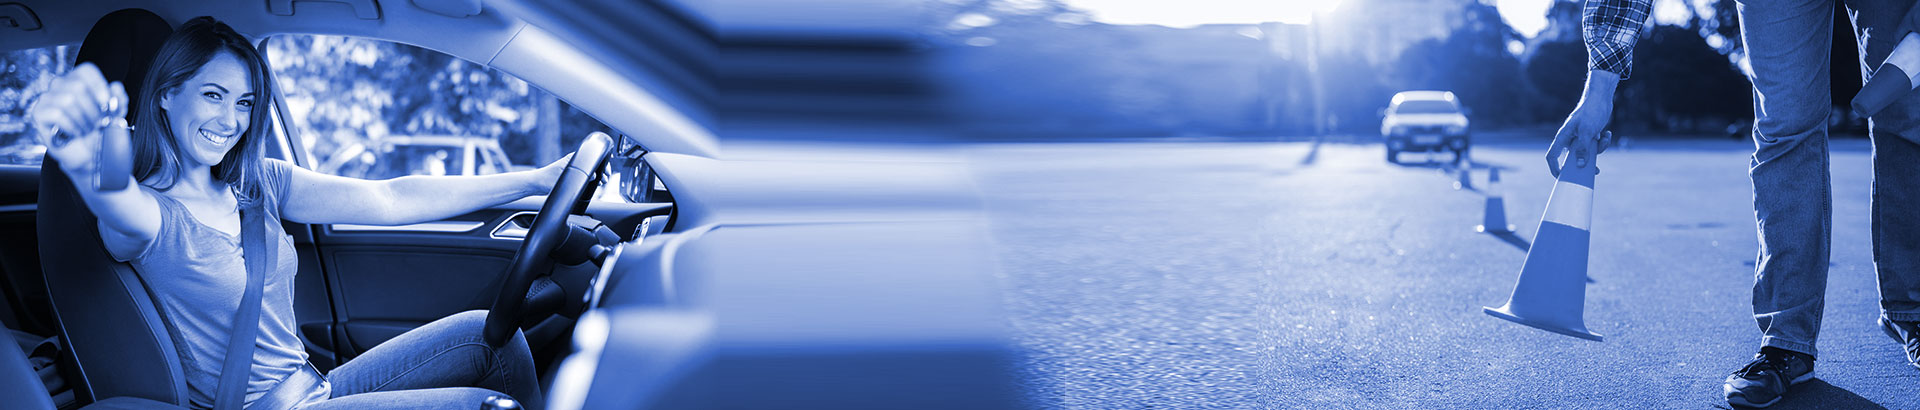
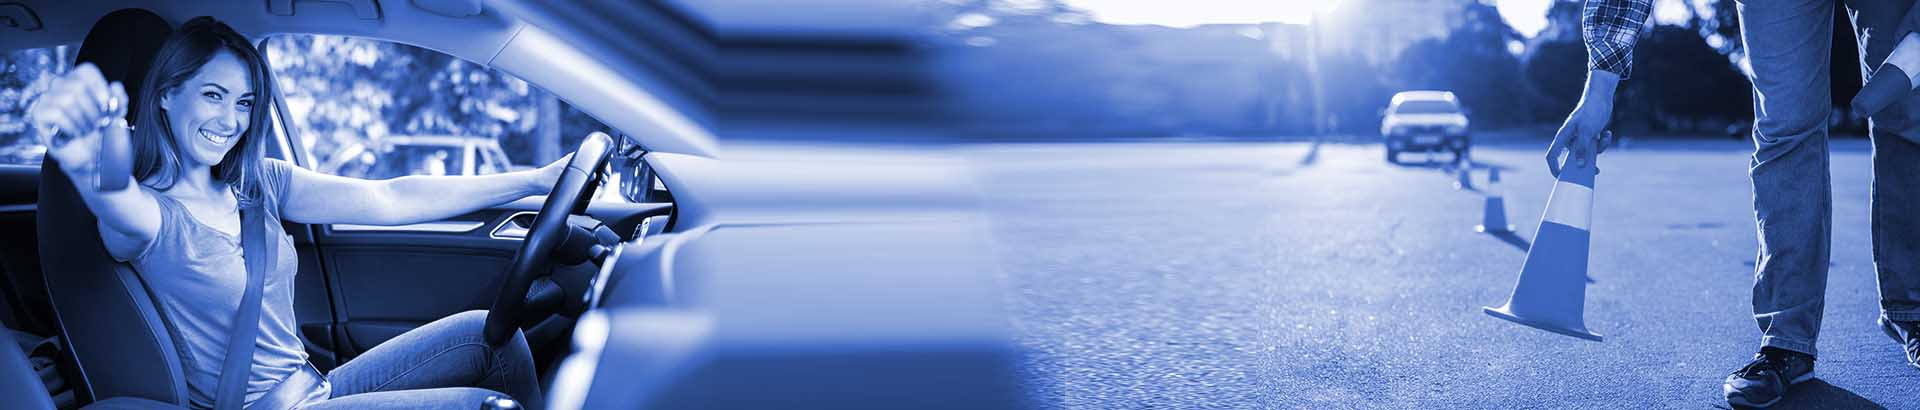
fix seo small size web page

diff --git a/css/main.css b/css/main.css
@@ -910,7 +910,7 @@ br {
     z-index: 2;
     padding: 30px 0 25px;
     text-align: center;
-    background: url(../img/serv.png) center center / cover;
+    background: url(../img/serv.jpg) center center / cover;
 }
 
 .serv__item {
@@ -1015,7 +1015,7 @@ br {
 
 .more-information {
     padding: 45px 0 35px;
-    background: url("../img/more.png") top center / cover;
+    background: url("../img/more.jpg") top center / cover;
 }
 
 .more-info {
@@ -1085,7 +1085,7 @@ br {
 .offers {
     padding: 32px 0;
     text-align: center;
-    background: url(../img/special.png) center center / cover;
+    background: url('../img/special.jpg') center center / cover;
 }
 
 .offer__title {
@@ -1216,14 +1216,14 @@ br {
 }
 
 .instru__item_wrap_img {
+    overflow: hidden;
     width: 173px;
     height: 173px;
     margin-bottom: 10px;
     border-radius: 100%;
-    overflow: hidden;
 }
 
-.instru__item_wrap_img img{
+.instru__item_wrap_img img {
     width: 100%;
     height: 100%;
     object-fit: cover;
@@ -1241,7 +1241,7 @@ br {
 }
 
 .faces {
-    background: url("../img/map-fon-2.png") top center / cover;
+    background: url("../img/map-fon-2.jpg") top center / cover;
 }
 
 
@@ -1567,14 +1567,14 @@ br {
 }
 
 .new__photo_wrap_img {
+    overflow: hidden;
     width: 150px;
     height: 150px;
     border-radius: 100%;
     filter: drop-shadow(0px 4px 100px rgba(0, 0, 0, 0.5));
-    overflow: hidden;
 }
 
-.new__photo_wrap_img img{
+.new__photo_wrap_img img {
     width: 100%;
     height: 100%;
     object-fit: cover;
@@ -1840,6 +1840,7 @@ br {
 .rank__cont {
     display: flex;
     justify-content: space-between;
+    align-items: center;
 }
 
 .rank__cont p {
@@ -1852,12 +1853,20 @@ br {
     text-align: center;
 }
 
-.rank__part img {
-    display: block;
-    width: 531px;
-    height: 321px;
+
+.rank__part {
+    /*display: block;*/
+    overflow: hidden;
+    max-width: 530px;
     margin-right: 26px;
     border-radius: 36px;
+}
+
+.rank__part img {
+    width: 100%;
+    height: 100%;
+    object-fit: contain;
+    object-position: center;
 }
 
 .rank__part p {
@@ -1874,23 +1883,23 @@ br {
 
 .place__cont {
     display: flex;
+    flex-wrap: wrap;
     justify-content: space-between;
     margin-top: 15px;
-    flex-wrap: wrap;
 }
 
 .place__item {
     display: block;
-    color: #fff;
     margin-bottom: 20px;
+    color: #fff;
 }
 
 .place__item_wrap_img {
+    overflow: hidden;
     width: 270px;
     height: 152px;
     margin-bottom: 10px;
     border-radius: 18px;
-    overflow: hidden;
 }
 
 .place__item_wrap_img img {
@@ -1986,15 +1995,15 @@ br {
 }
 
 .feedback__item_wrap_img {
+    overflow: hidden;
+    flex-shrink: 0;
     width: 94px;
     height: 94px;
     margin-right: 9px;
     border-radius: 50px;
-    overflow: hidden;
-    flex-shrink: 0;
 }
 
-.feedback__item_wrap_img img{
+.feedback__item_wrap_img img {
     width: 100%;
     height: 100%;
     object-fit: cover;
@@ -2029,7 +2038,7 @@ br {
 
 #blurbs-one {
     padding: 20px 0;
-    background: url("../img/baner-one.png") top center / cover;
+    background: url("../img/baner-one.jpg") top center / cover;
 }
 
 #blurbs-one .blurb__up {
